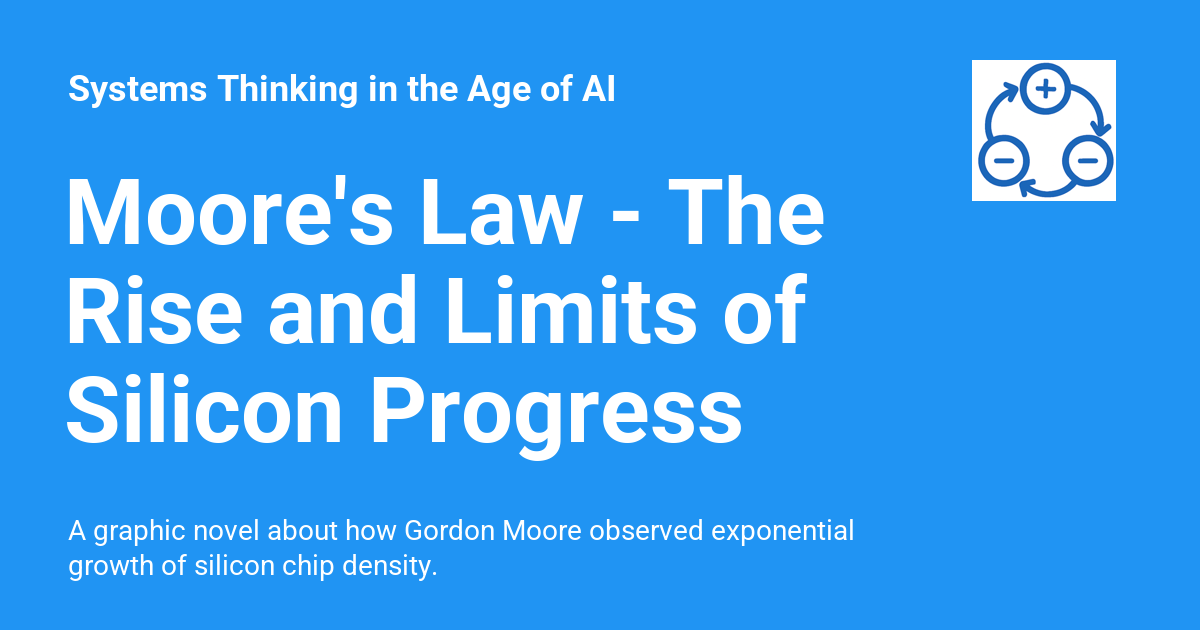
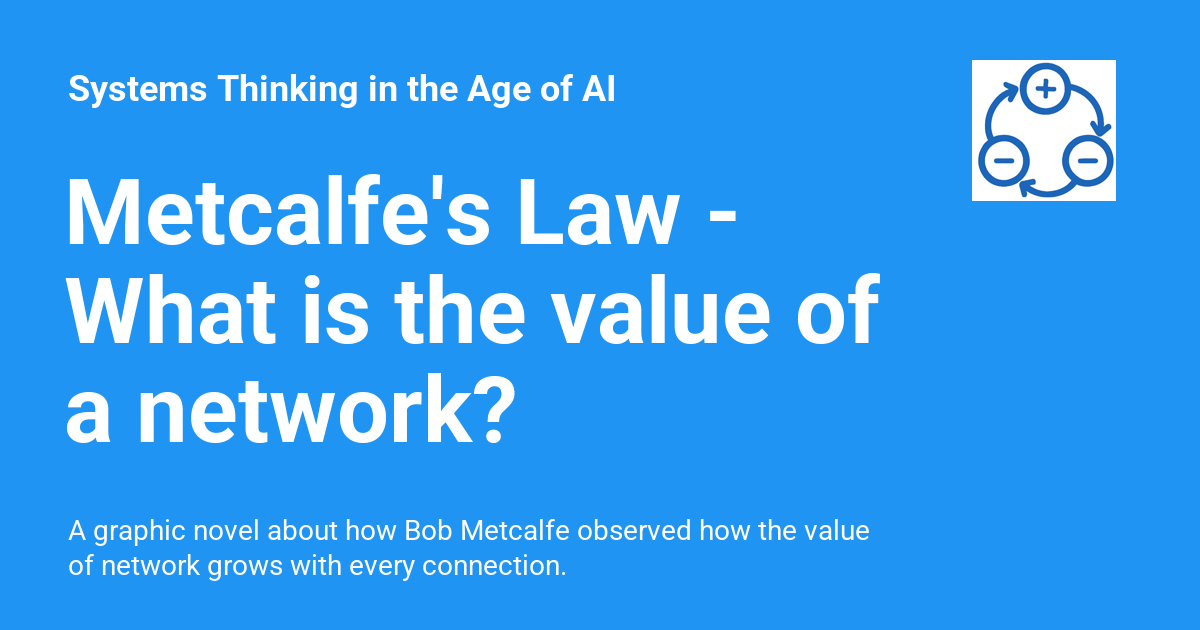
Deployed 68c6742 with MkDocs version: 1.6.1

diff --git a/stories/metcalfes-law/index.html b/stories/metcalfes-law/index.html
@@ -6,7 +6,7 @@
       <meta charset="utf-8">
       <meta name="viewport" content="width=device-width,initial-scale=1">
       
-        <meta name="description" content="A graphic novel about how Gordon Moore observed exponential growth of silicon chip density.">
+        <meta name="description" content="A graphic novel about how Bob Metcalfe observed how the value of network grows with every connection.">
       
       
         <meta name="author" content="Dan McCreary">
@@ -26,7 +26,7 @@
     
     
       
-        <title>Moore's Law - The Rise and Limits of Silicon Progress - Systems Thinking in the Age of AI</title>
+        <title>Metcalfe's Law - What is the value of a network? - Systems Thinking in the Age of AI</title>
       
     
     
@@ -73,9 +73,9 @@
       
         <meta  property="og:type"  content="website" >
       
-        <meta  property="og:title"  content="Moore's Law - The Rise and Limits of Silicon Progress - Systems Thinking in the Age of AI" >
+        <meta  property="og:title"  content="Metcalfe's Law - What is the value of a network? - Systems Thinking in the Age of AI" >
       
-        <meta  property="og:description"  content="A graphic novel about how Gordon Moore observed exponential growth of silicon chip density." >
+        <meta  property="og:description"  content="A graphic novel about how Bob Metcalfe observed how the value of network grows with every connection." >
       
         <meta property="og:image" content="https://dmccreary.github.io/systems-thinking/stories/metcalfes-law/cover.jpg">
       
@@ -89,9 +89,9 @@
       
         <meta  name="twitter:card"  content="summary_large_image" >
       
-        <meta  name="twitter:title"  content="Moore's Law - The Rise and Limits of Silicon Progress - Systems Thinking in the Age of AI" >
+        <meta  name="twitter:title"  content="Metcalfe's Law - What is the value of a network? - Systems Thinking in the Age of AI" >
       
-        <meta  name="twitter:description"  content="A graphic novel about how Gordon Moore observed exponential growth of silicon chip density." >
+        <meta  name="twitter:description"  content="A graphic novel about how Bob Metcalfe observed how the value of network grows with every connection." >
       
         <meta name="twitter:image" content="https://dmccreary.github.io/systems-thinking/stories/metcalfes-law/cover.jpg">
       
@@ -149,7 +149,7 @@
         <div class="md-header__topic" data-md-component="header-topic">
           <span class="md-ellipsis">
             
-              Moore's Law - The Rise and Limits of Silicon Progress
+              Metcalfe's Law - What is the value of a network?
             
           </span>
         </div>
